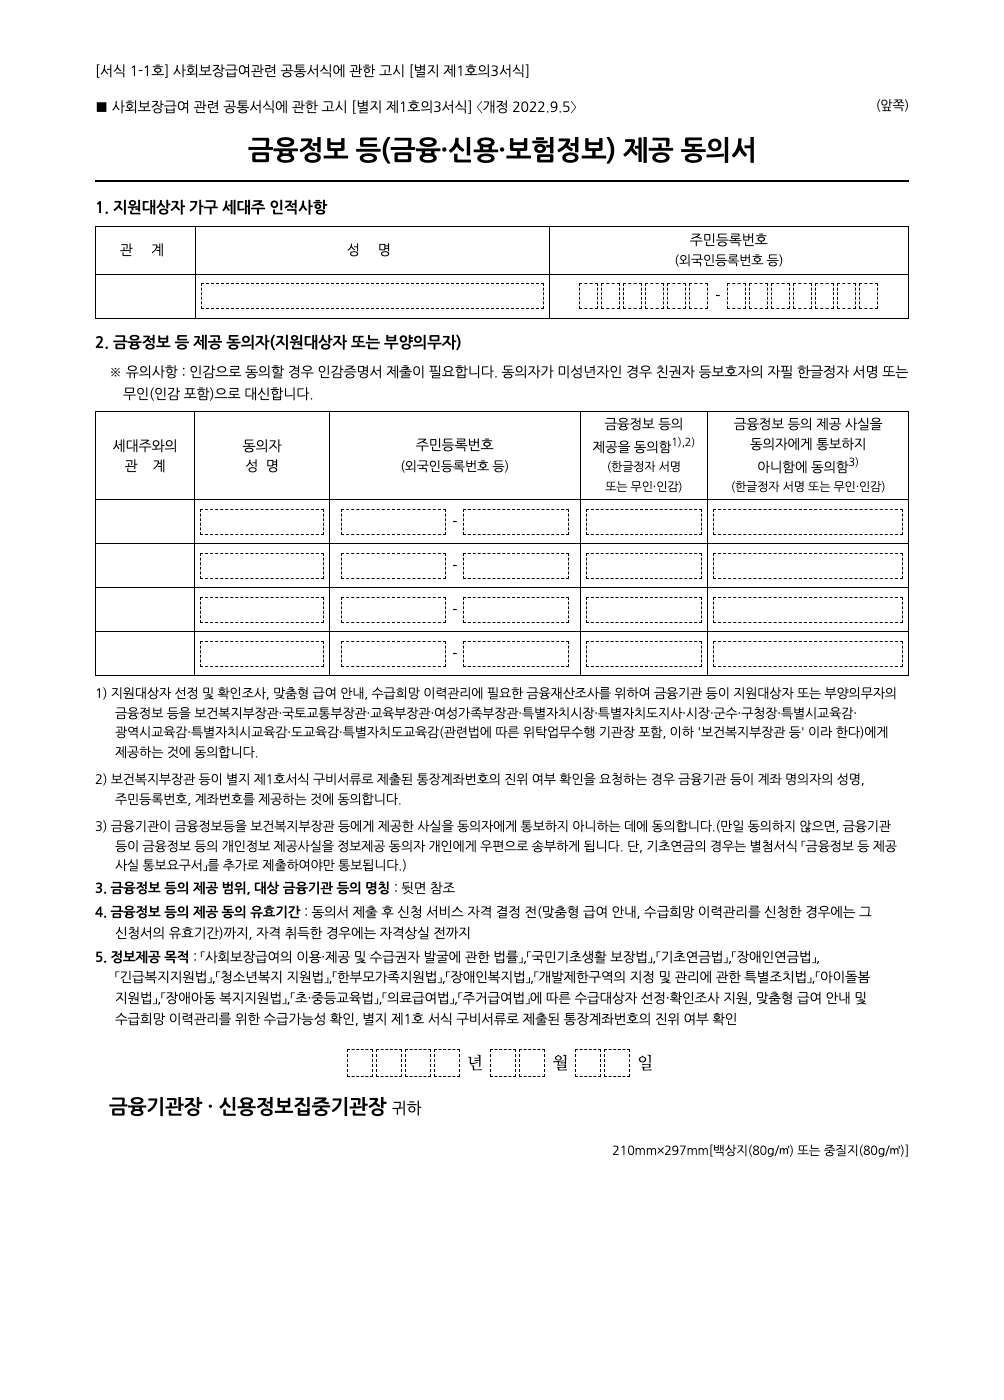
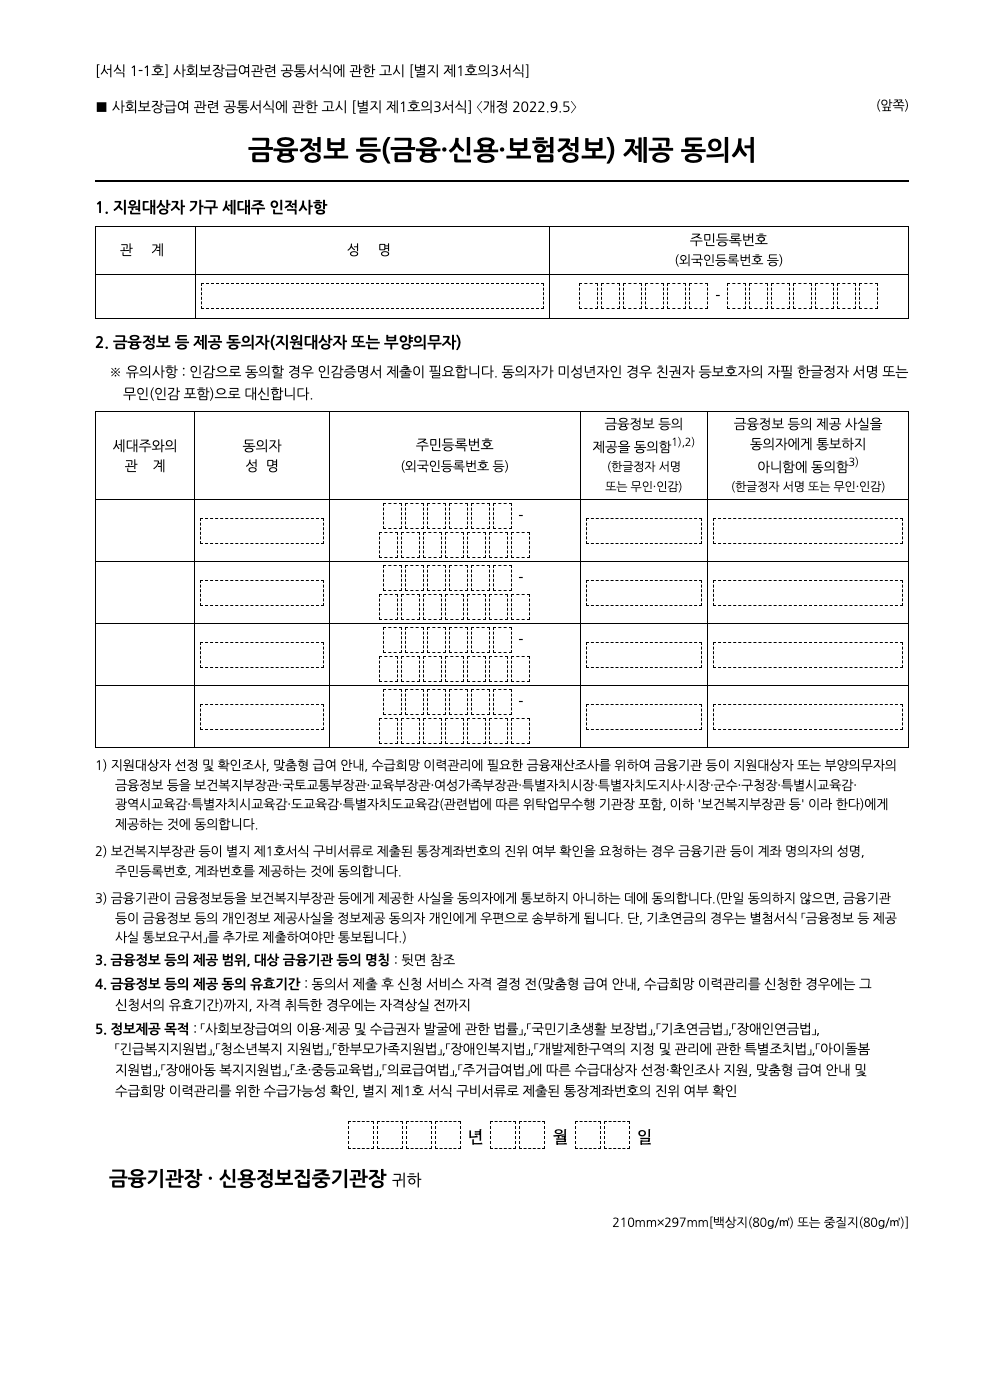
4_replica: 1편 서식1_1호-1 주민번호를 원본대로 점선 낱칸 6+7로 정정 (44%폭 박스 2개 → 낱칸 13개 ×4행), 재렌더

diff --git a/4_replica/html/1편_서식1_1호_사회보장급여관련_공통서식에_관한_고시_[별지_제1호의3서식]-1.html b/4_replica/html/1편_서식1_1호_사회보장급여관련_공통서식에_관한_고시_[별지_제1호의3서식]-1.html
@@ -52,28 +52,28 @@ table td{font-size:14px;padding:3px 5px}
 <tr>
   <td style="position:relative;height:44px"><span data-f="text" class="cgf"></span></td>
   <td><span data-f="text" class="db"></span></td>
-  <td><div class="jl"><span data-f="number" class="dbx" style="width:44%"></span><span style="padding:0 3px">-</span><span data-f="number" class="dbx" style="width:44%"></span></div></td>
+  <td style="height:62px"><div class="jl" style="margin-bottom:3px"><i data-f="number"></i><i data-f="number"></i><i data-f="number"></i><i data-f="number"></i><i data-f="number"></i><i data-f="number"></i><span style="padding:0 3px">-</span></div><div class="jl"><i data-f="number"></i><i data-f="number"></i><i data-f="number"></i><i data-f="number"></i><i data-f="number"></i><i data-f="number"></i><i data-f="number"></i></div></td>
   <td><span data-f="signature" class="db"></span></td>
   <td><span data-f="signature" class="db"></span></td>
 </tr>
 <tr>
   <td style="position:relative;height:44px"><span data-f="text" class="cgf"></span></td>
   <td><span data-f="text" class="db"></span></td>
-  <td><div class="jl"><span data-f="number" class="dbx" style="width:44%"></span><span style="padding:0 3px">-</span><span data-f="number" class="dbx" style="width:44%"></span></div></td>
+  <td style="height:62px"><div class="jl" style="margin-bottom:3px"><i data-f="number"></i><i data-f="number"></i><i data-f="number"></i><i data-f="number"></i><i data-f="number"></i><i data-f="number"></i><span style="padding:0 3px">-</span></div><div class="jl"><i data-f="number"></i><i data-f="number"></i><i data-f="number"></i><i data-f="number"></i><i data-f="number"></i><i data-f="number"></i><i data-f="number"></i></div></td>
   <td><span data-f="signature" class="db"></span></td>
   <td><span data-f="signature" class="db"></span></td>
 </tr>
 <tr>
   <td style="position:relative;height:44px"><span data-f="text" class="cgf"></span></td>
   <td><span data-f="text" class="db"></span></td>
-  <td><div class="jl"><span data-f="number" class="dbx" style="width:44%"></span><span style="padding:0 3px">-</span><span data-f="number" class="dbx" style="width:44%"></span></div></td>
+  <td style="height:62px"><div class="jl" style="margin-bottom:3px"><i data-f="number"></i><i data-f="number"></i><i data-f="number"></i><i data-f="number"></i><i data-f="number"></i><i data-f="number"></i><span style="padding:0 3px">-</span></div><div class="jl"><i data-f="number"></i><i data-f="number"></i><i data-f="number"></i><i data-f="number"></i><i data-f="number"></i><i data-f="number"></i><i data-f="number"></i></div></td>
   <td><span data-f="signature" class="db"></span></td>
   <td><span data-f="signature" class="db"></span></td>
 </tr>
 <tr>
   <td style="position:relative;height:44px"><span data-f="text" class="cgf"></span></td>
   <td><span data-f="text" class="db"></span></td>
-  <td><div class="jl"><span data-f="number" class="dbx" style="width:44%"></span><span style="padding:0 3px">-</span><span data-f="number" class="dbx" style="width:44%"></span></div></td>
+  <td style="height:62px"><div class="jl" style="margin-bottom:3px"><i data-f="number"></i><i data-f="number"></i><i data-f="number"></i><i data-f="number"></i><i data-f="number"></i><i data-f="number"></i><span style="padding:0 3px">-</span></div><div class="jl"><i data-f="number"></i><i data-f="number"></i><i data-f="number"></i><i data-f="number"></i><i data-f="number"></i><i data-f="number"></i><i data-f="number"></i></div></td>
   <td><span data-f="signature" class="db"></span></td>
   <td><span data-f="signature" class="db"></span></td>
 </tr>
